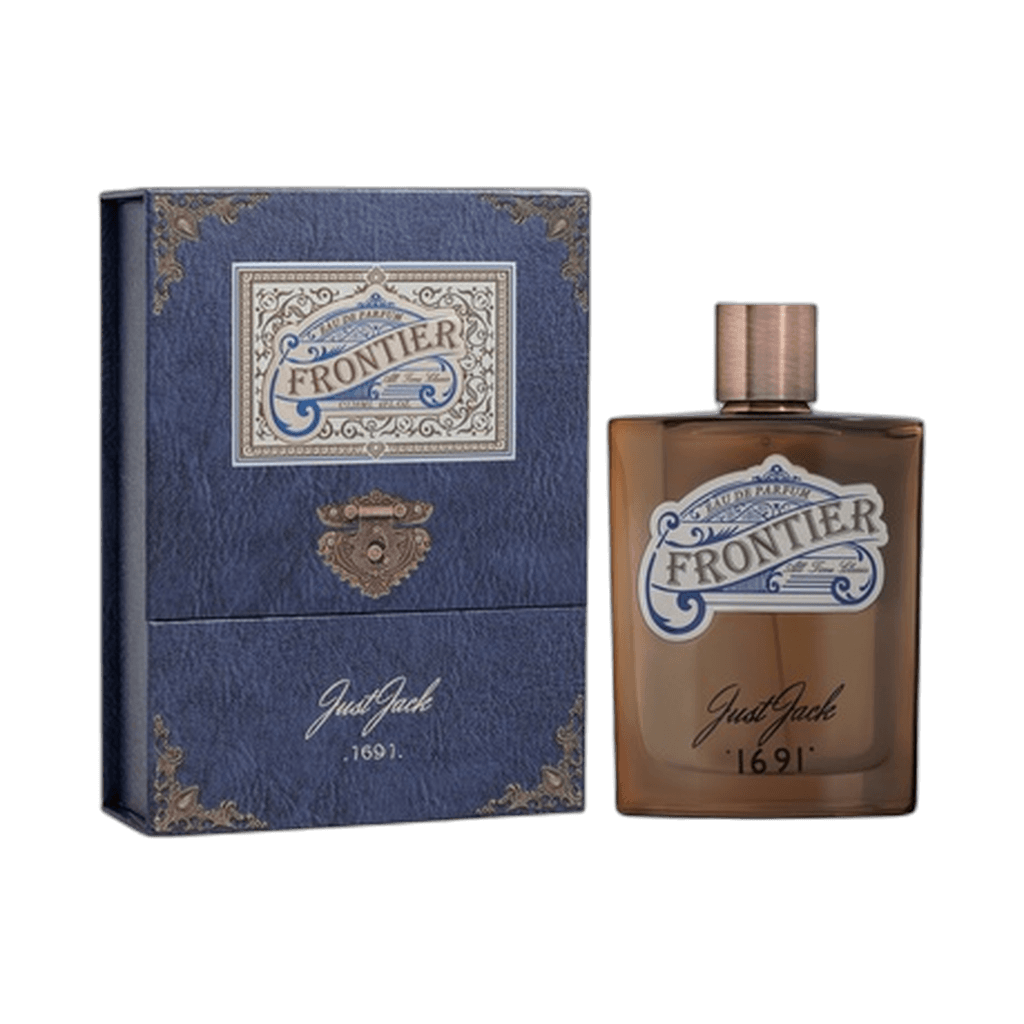
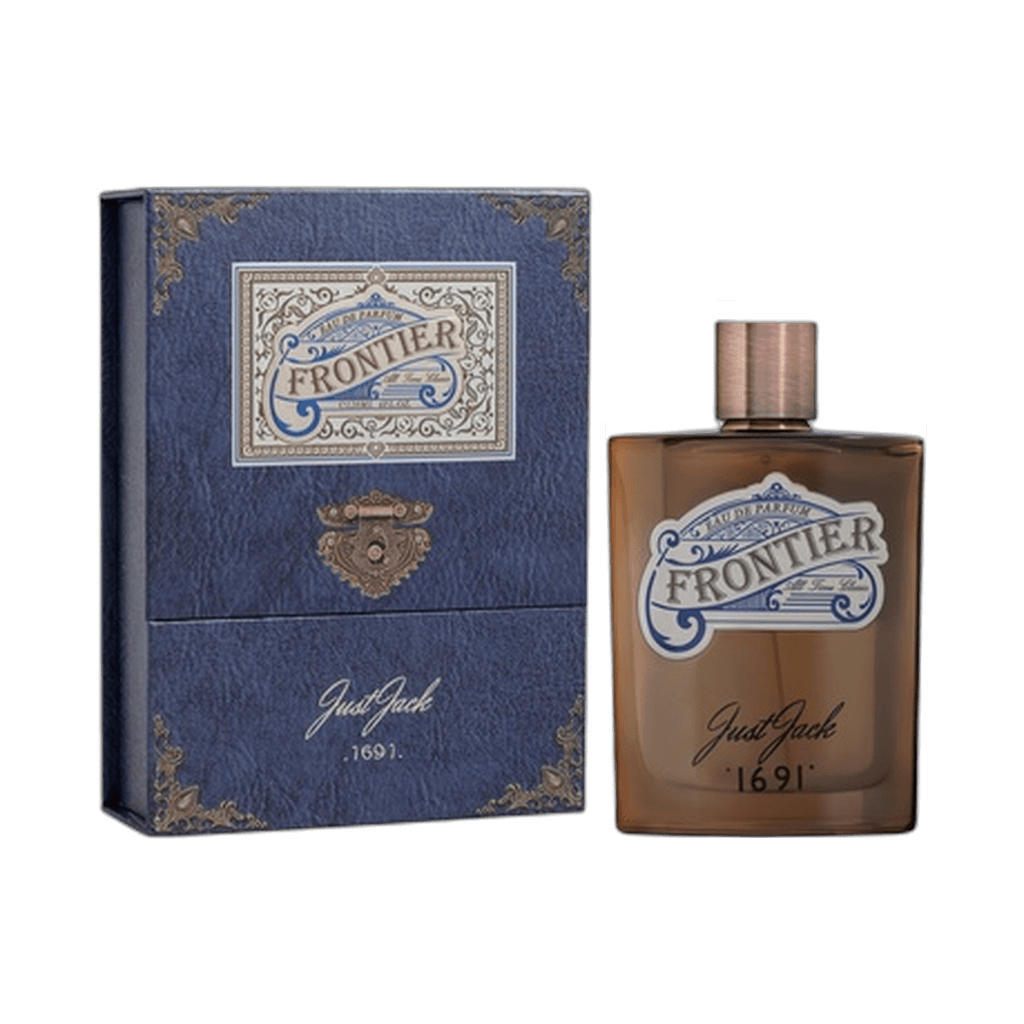
feat(images): align multi-object baselines in normalize_flacon_cutout so second object does not float

Changed region(s): [[0.5938, 0.375, 0.9062, 0.6562], [0.5938, 0.6562, 0.9062, 0.8438], [0.6875, 0.2812, 0.8125, 0.3438]]

diff --git a/Al-Warda/scripts/generate_product_images.py b/Al-Warda/scripts/generate_product_images.py
@@ -2077,7 +2077,75 @@ def normalize_flacon_cutout(cutout, target_max_h=880, target_max_w=880, canvas_s
             canvas = Image.new("RGBA", canvas_size, (0, 0, 0, 0))
             canvas.paste(resized, (pos_x + err, pos_y), resized)
 
+    canvas = align_multi_object_floor(canvas)
     return canvas
+
+
+def align_multi_object_floor(canvas):
+    """When a cutout has 2+ horizontally separated standing objects (e.g. box + bottle),
+    align the bottom baseline of any slightly higher object down to the shared floor
+    line so the second object never appears to float above the stage."""
+    import numpy as np
+    arr = np.array(canvas.convert("RGBA"))
+    h, w = arr.shape[:2]
+    alpha = arr[:, :, 3]
+    ys, xs = np.where(alpha > 35)
+    if len(ys) == 0:
+        return canvas
+    min_x, max_x = int(xs.min()), int(xs.max())
+    min_y, max_y = int(ys.min()), int(ys.max())
+    col_has = np.any(alpha[min_y:max_y + 1, :] > 35, axis=0)
+
+    segs = []
+    in_seg = False
+    start = 0
+    for x in range(min_x, max_x + 1):
+        if col_has[x] and not in_seg:
+            in_seg = True
+            start = x
+        elif not col_has[x] and in_seg:
+            in_seg = False
+            segs.append((start, x - 1))
+    if in_seg:
+        segs.append((start, max_x))
+
+    merged = []
+    for s in segs:
+        if merged and s[0] - merged[-1][1] < 4:
+            merged[-1] = (merged[-1][0], s[1])
+        else:
+            merged.append(s)
+
+    if len(merged) < 2:
+        return canvas
+
+    seg_info = []
+    for sx, ex in merged:
+        sy = np.where(alpha[:, sx:ex + 1] > 35)[0]
+        if len(sy) == 0:
+            continue
+        s_min_y, s_max_y = int(sy.min()), int(sy.max())
+        seg_info.append((sx, ex, s_min_y, s_max_y, ex - sx + 1, s_max_y - s_min_y + 1))
+
+    if len(seg_info) < 2:
+        return canvas
+
+    target_bottom = max(s[3] for s in seg_info)
+    out = arr.copy()
+    changed = False
+    for sx, ex, s_min_y, s_max_y, sw, sh in seg_info:
+        delta = target_bottom - s_max_y
+        if 10 <= delta <= 150 and sw >= 60 and sh >= 200 and s_max_y >= h * 0.60:
+            slice_rgba = arr[s_min_y:s_max_y + 1, sx:ex + 1].copy()
+            out[s_min_y:s_max_y + 1, sx:ex + 1] = 0
+            dst_y1 = min(h, s_min_y + delta)
+            dst_y2 = min(h, s_max_y + 1 + delta)
+            copy_h = dst_y2 - dst_y1
+            if copy_h > 0:
+                out[dst_y1:dst_y2, sx:ex + 1] = slice_rgba[:copy_h, :]
+                changed = True
+
+    return Image.fromarray(out, "RGBA") if changed else canvas
 
 
 
